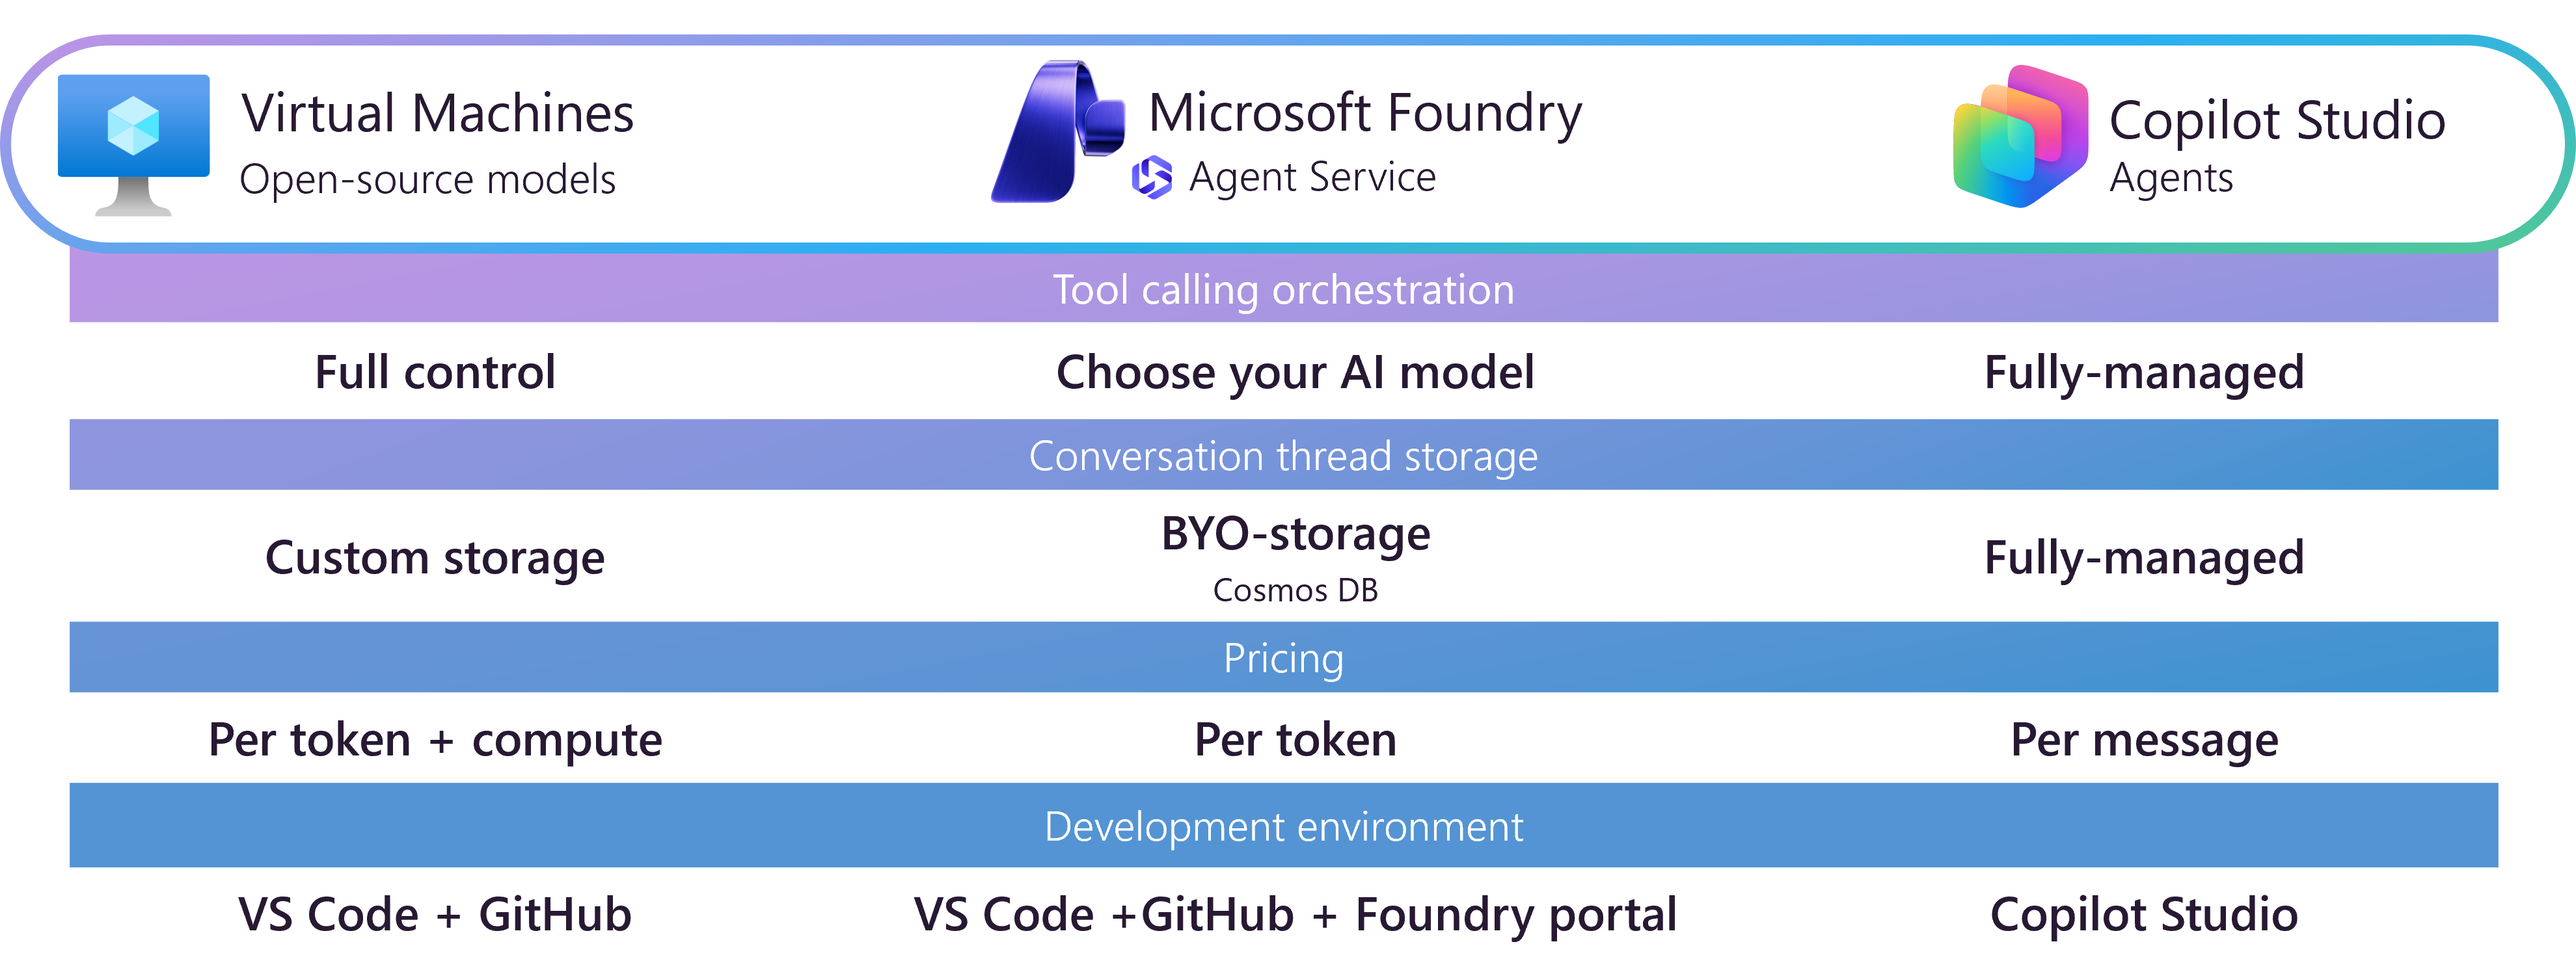
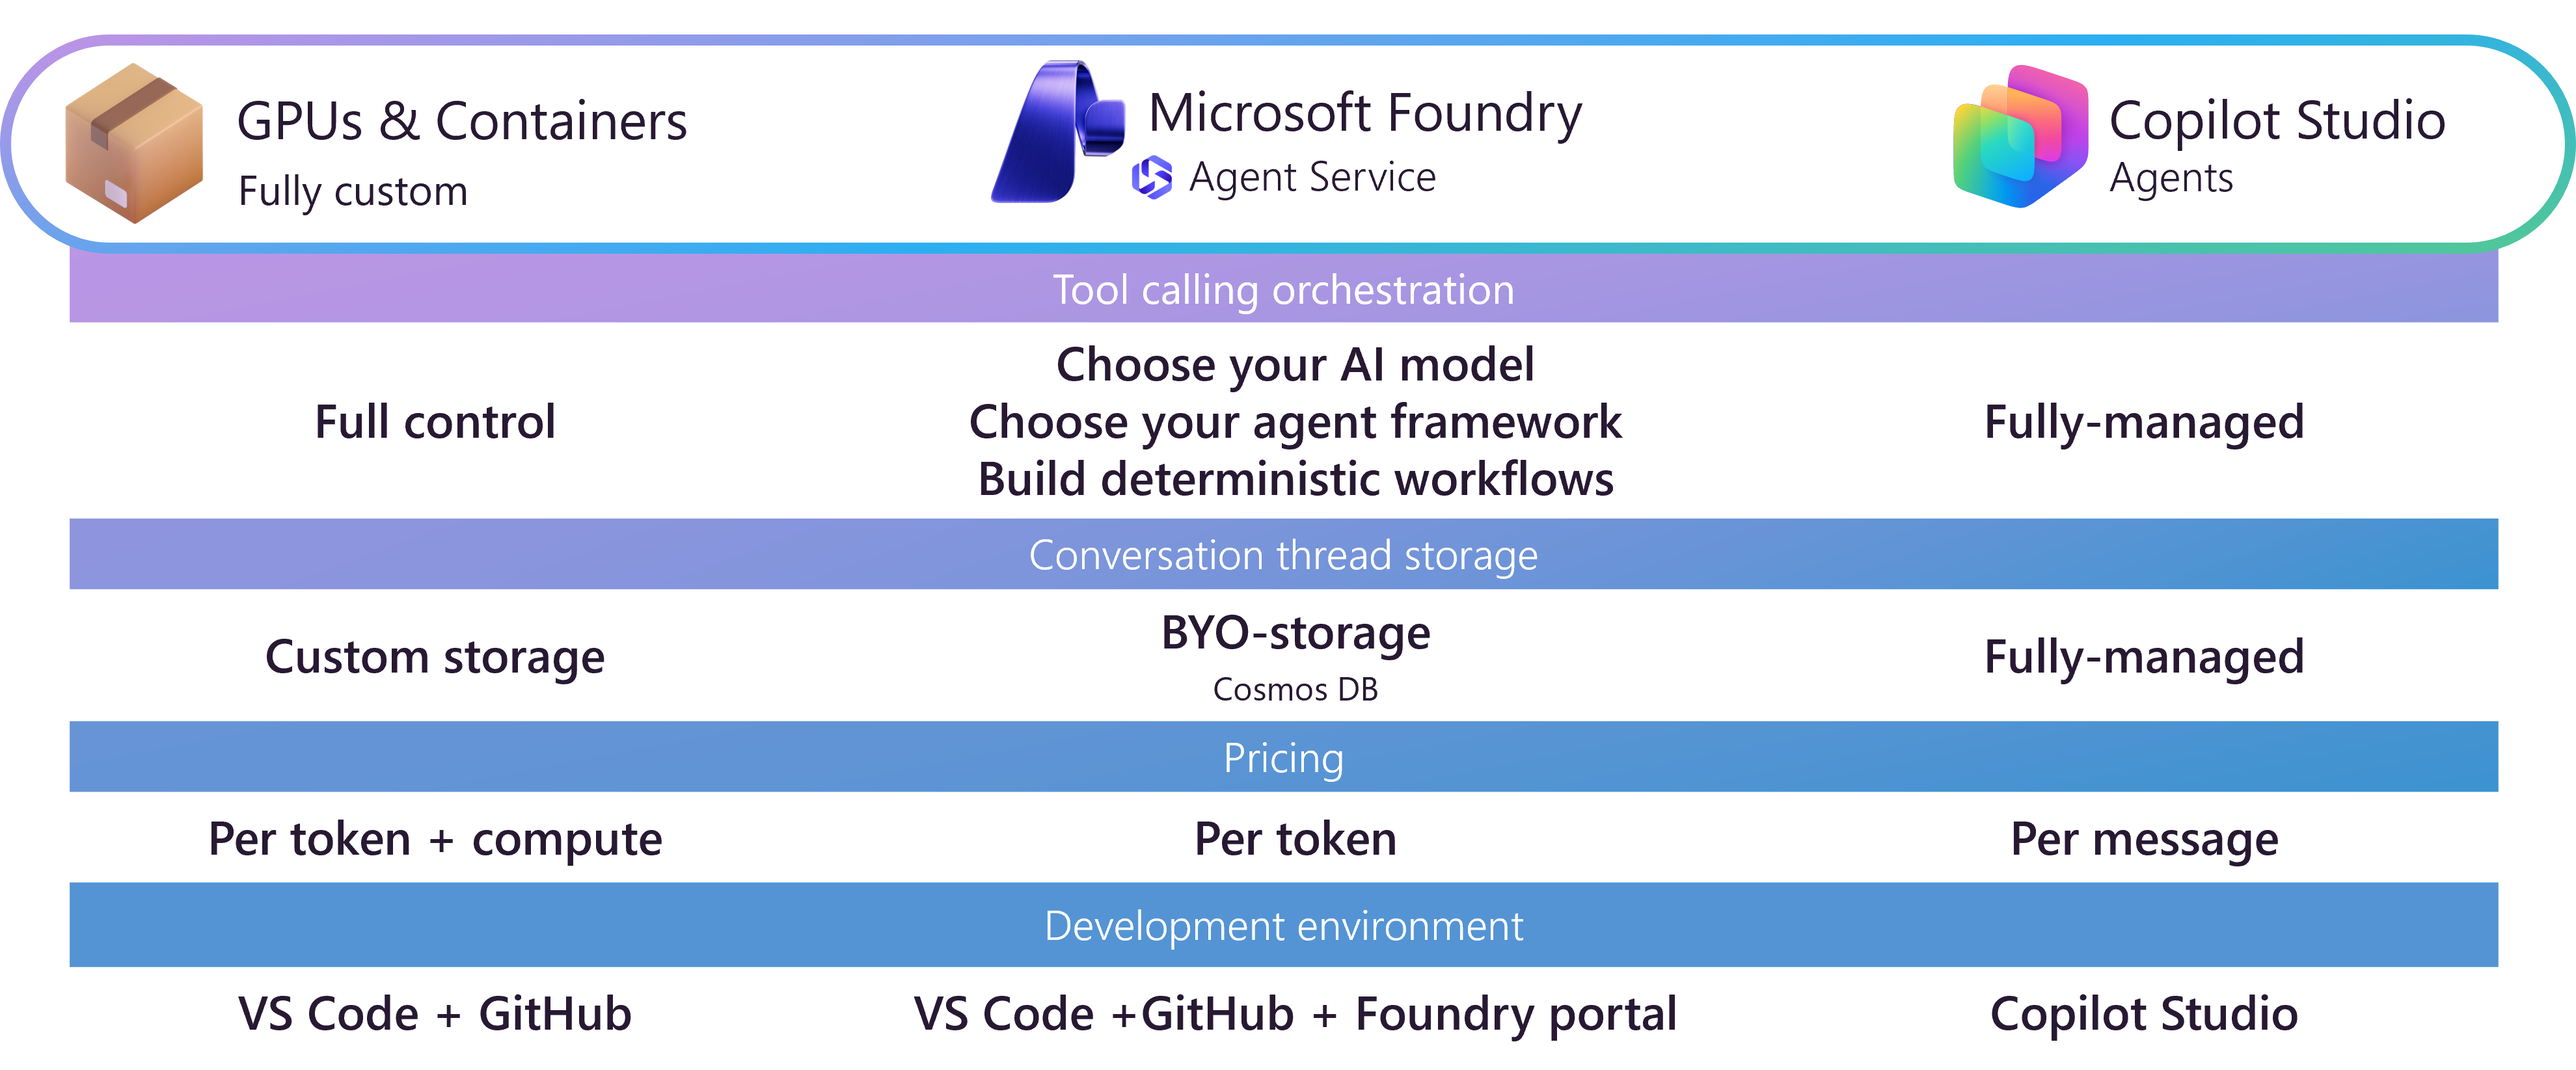
updates

diff --git a/docs/ai-agents/technology-solutions-plan-strategy.md b/docs/ai-agents/technology-solutions-plan-strategy.md
@@ -32,31 +32,31 @@ When no SaaS agents meet your functional requirements, build custom agents to ac
 
 Choose a build path based on your organization's technical capabilities, timeline, and control requirements. Microsoft provides two primary platforms: Foundry for pro-code development with maximum flexibility, and Copilot Studio for low-code development with faster deployment.
 
-:::image type="content" source="./images/build-overview.png" alt-text="Diagram that shows an overview of the build agent options." lightbox="./images/build-overview.png" border="false":::
+:::image type="complex" source="./images/build-overview.png" alt-text="Diagram showing build agent options across three platforms: Microsoft Foundry (pro-code with declarative agents, workflows, and hosted agents), Microsoft Copilot Studio (low-code with retrieval and task agents), and GPUs & Containers (custom infrastructure with code-first frameworks)." lightbox="./images/build-overview.png":::
+    Overview of AI agent build options comparing three deployment paths. Microsoft Foundry offers pro-code development with declarative agents for focused tasks, workflows for multi-step orchestration, and hosted agents with managed runtime. Microsoft Copilot Studio provides low-code development with prebuilt connectors and retrieval and task agent capabilities. GPUs & Containers support custom infrastructure using Visual Studio Code and GitHub for maximum flexibility in agent deployment.
+:::image-end:::
 
 ### Microsoft Foundry
 
-[Microsoft Foundry](/azure/ai-foundry/agents/overview) provides a platform-as-a-service (PaaS) model for pro-code development. It supports full customization, including model selection, infrastructure control, and data integration. Use Foundry when you require deep control over agent behavior and infrastructure but want to avoid the operational overhead of managing raw virtual machines or containers. It suits organizations with engineering teams building high-value, complex scenarios.
-
-:::image type="content" source="./images/foundry-overview.png" alt-text="Diagram showing Microsoft Foundry development capabilities including declarative agents, workflows, and hosted agents, plus integration options with Activity Protocol, agent-to-agent interaction, and tool integration." lightbox="./images/foundry-overview.png" border="false":::
+[Microsoft Foundry](/azure/ai-foundry/what-is-azure-ai-foundry?view=foundry) is a platform-as-a-service for pro-code agent development that consolidates runtime, orchestration, and integration features into a managed environment. It exposes capabilities that span authoring, execution, and operational observability so teams can build sophisticated, production-grade agents without managing underlying VM or Kubernetes infrastructure.
 
 **Development capabilities**
 
-- **Declarative agents.** Build prompt-based agents that combine model configuration, instructions, tools, and natural language prompts. These agents handle focused tasks and quick automations. You can enhance them with knowledge bases and memory.
-- **Workflows.** Create multi-step workflows to orchestrate sequences of actions or coordinate multiple agents. This approach supports complex business processes and approval chains while ensuring predictable execution.
-- **Hosted agents.** Deploy custom agents built with code-first frameworks like LangGraph directly into the managed runtime. Foundry handles provisioning and autoscaling, which removes the need for Kubernetes expertise required by IaaS solutions. See [Hosted agents in Microsoft Foundry](/azure/ai-foundry/agents/concepts/hosted-agents?view=foundry).
+- **Declarative agents.** Define agent behavior in [prompt-based](/azure/ai-foundry/agents/concepts/development-lifecycle?view=foundry#types-of-agents) declarative agents. Combine model selection, prompts, instructions, and tool bindings. Declarative agents support augmentation with knowledge bases and memory to extend context and retrieval.
+- **Hosted agents.** You don't need to manage your own infrastructure to bring you own agent frameworks inside a code-first managed runtime. Foundry handles provisioning, scaling, and lifecycle concerns for hosted containers, letting code-first projects focus on business logic instead of infra management. See [Hosted agents](/azure/ai-foundry/agents/concepts/hosted-agents?view=foundry).
+
+- **Workflows.** Model multi-step processes and agent coordination as orchestrated flows. Workflows enable sequential logic, conditional branching, retries, and integrations with services to represent business processes and approval paths. See [Workflows](/azure/ai-foundry/agents/concepts/workflow?view=foundry).
 
 **Integration and interoperability**
 
-- **Activity Protocol.** Use this standard to ensure agents communicate effectively across Microsoft services, including Microsoft 365 Copilot and Copilot Studio. It standardizes how messages and events flow between channels and code. See [Activity Protocol](/microsoft-365/agents-sdk/activity-protocol).
-- **Agent-to-Agent (A2A) interaction.** Enable agents to collaborate and orchestrate tasks with other agents.
-- **Tool integration.** Connect agents to external systems using the Microsoft Copilot Protocol (MCP) or OpenAPI specifications. For complex serverless automation, integrate with Fabric (Fabric IQ and Fabric data agents), SharePoint, Bing, Azure AI Search, Azure Logic Apps and Azure Functions. See the [Tool catalog](/azure/ai-foundry/agents/concepts/tool-catalog?view=foundry).
-- **Publishing.** Distribute agents directly into [Microsoft 365](/azure/ai-foundry/agents/how-to/publish-copilot?view=foundry) or [Azure 365](/azure/ai-foundry/agents/how-to/agent-365?view=foundry).
+- **Integration surface.** Foundry supports standardized messaging and cross-service interaction through the Activity Protocol and agent-to-agent (A2A) patterns.
+- **Integration.** Agents can be surfaced to other Microsoft experiences and channels through built-in publishing paths, like [Microsoft 365](/azure/ai-foundry/agents/how-to/publish-copilot?view=foundry) and [Agent 365](/azure/ai-foundry/agents/how-to/agent-365?view=foundry).
 
-**Infrastructure and models**
+**Models, memory, and tools**
 
 - **Model selection.** Access a diverse catalog including OpenAI, Anthropic, Meta LLaMA, and Mistral. Select models that balance performance, latency, and cost for your specific use case. See the [Model catalog](/azure/ai-studio/how-to/model-catalog).
 - **Memory and state.** Use [managed memory](/azure/ai-foundry/agents/concepts/agent-memory?view=foundry&tabs=python) to maintain conversation context. For strict data governance, use the bring-your-own (BYO) memory store option.
+- **Tool integration.** Connect agents to external systems using the Microsoft Copilot Protocol (MCP) or OpenAPI specifications. For complex serverless automation, integrate with Fabric (Fabric IQ and Fabric data agents), SharePoint, Bing, Azure AI Search, Azure Logic Apps and Azure Functions. See the [Tool catalog](/azure/ai-foundry/agents/concepts/tool-catalog?view=foundry).
 
 Start with the [Foundry playground](/azure/ai-foundry/concepts/concept-playgrounds) to build and test prototypes. Follow the quickstart guide to [create a new agent](/azure/ai-foundry/agents/quickstart).
 
